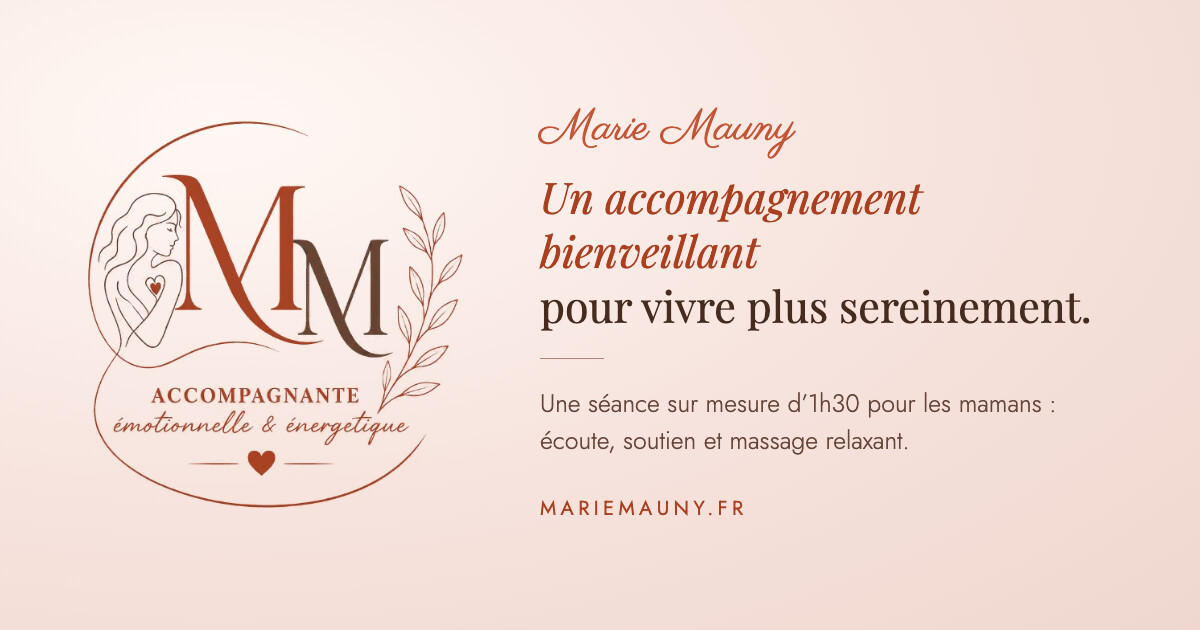
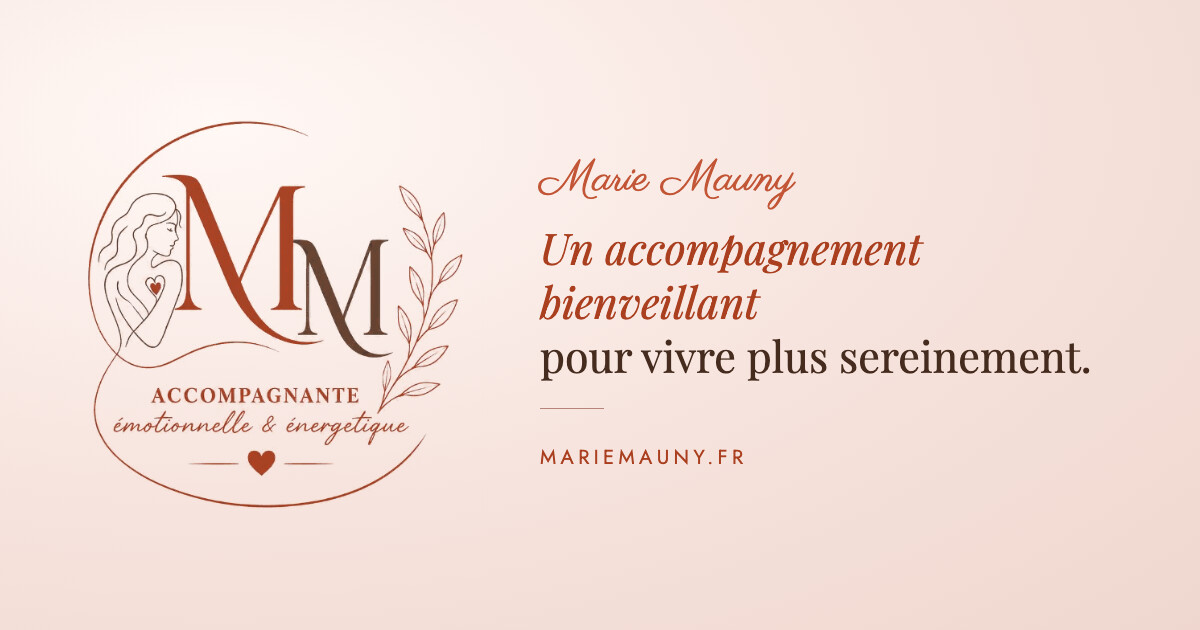
move the "Première fois" section just before the contact form
Its last answer already points to the form ("vous m'écrivez via le
formulaire en bas de page"), so it now sits right before it. The nav
follows the same order. Also renames the "La séance" eyebrow to
"Pour les femmes", and drops the tagline from the share image so the
main line carries it alone.

Changed region(s): [[0.4317, 0.181, 0.925, 0.6635], [0.4317, 0.6937, 0.7708, 0.754], [0.4317, 0.7841, 0.6167, 0.8143]]

diff --git a/index.html b/index.html
@@ -204,7 +204,7 @@
   .card p{color:var(--ink-soft);font-size:.95rem;margin-top:14px}
   @media(max-width:820px){.cards{grid-template-columns:1fr;max-width:420px;margin:0 auto}}
 
-  /* ---------- la séance ---------- */
+  /* ---------- pour les femmes ---------- */
   .price{
     display:flex;justify-content:center;flex-wrap:wrap;gap:18px 52px;
     max-width:660px;margin:0 auto 56px;padding:26px 36px;
@@ -420,9 +420,9 @@
   <nav id="menu">
     <a href="#about">À propos</a>
     <a href="#seance">Femme</a>
-    <a href="#premiere">Première fois</a>
     <a href="#jeune-maman">Jeune maman</a>
     <a href="#enfants">Enfant</a>
+    <a href="#premiere">Première fois</a>
     <a href="#contact">Contact</a>
   </nav>
   <button class="burger" id="burger" aria-label="Ouvrir le menu" aria-expanded="false" aria-controls="menu"><i></i></button>
@@ -472,11 +472,11 @@
   </div>
 </section>
 
-<!-- LA SÉANCE -->
+<!-- POUR LES FEMMES -->
 <section class="soins" id="seance">
   <div class="wrap">
     <div class="head reveal">
-      <span class="eyebrow">La séance</span>
+      <span class="eyebrow">Pour les femmes</span>
       <h2>Une seule formule, <span class="script">entièrement sur mesure</span></h2>
     </div>
 
@@ -509,35 +509,6 @@
     <p class="foot reveal">Il n’y a pas de menu à choisir : vous ne venez pas « prendre un massage ». Vous venez vivre un moment complet, construit pour vous, à chaque fois différent.</p>
 
     <div class="cta-row reveal"><a class="cta" href="#contact">Réserver ma séance</a></div>
-  </div>
-</section>
-
-<!-- PREMIÈRE SÉANCE -->
-<section class="first" id="premiere">
-  <div class="wrap">
-    <div class="head reveal">
-      <span class="eyebrow">Première fois ?</span>
-      <h2>Ce qui vous attend, <span class="script">sans surprise</span></h2>
-    </div>
-    <div class="qa">
-      <div class="q reveal">
-        <h3>Je n’ai rien à préparer ?</h3>
-        <p>Rien du tout. Vous arrivez comme vous êtes, même fatiguée, même sans savoir quoi dire. C’est mon rôle de vous accueillir à partir de là.</p>
-      </div>
-      <div class="q reveal">
-        <h3>Et si je n’ai pas envie de parler ?</h3>
-        <p>Vous n’êtes pas obligée de raconter quoi que ce soit. Le temps d’échange s’adapte : certaines ont besoin de déposer beaucoup, d’autres très peu.</p>
-      </div>
-      <div class="q reveal">
-        <h3>Pourquoi une heure et demie ?</h3>
-        <p>Parce qu’un massage seul ne suffit pas. Le temps d’écoute et de compréhension fait partie du soin : c’est lui qui rend le massage juste pour vous.</p>
-      </div>
-      <div class="q reveal">
-        <h3>Comment ça se passe ensuite ?</h3>
-        <p>Vous m’écrivez via le formulaire en bas de page. Je vous réponds sous 24 h et nous trouvons ensemble le créneau qui vous convient.</p>
-      </div>
-      <!-- TODO Marie : ajouter ce qu'il faut prévoir (tenue, arrivée, stationnement) une fois le lieu confirmé -->
-    </div>
   </div>
 </section>
 
@@ -651,6 +622,35 @@
       </div>
 
       <a class="cta" href="#contact">Réserver une séance enfant</a>
+    </div>
+  </div>
+</section>
+
+<!-- PREMIÈRE SÉANCE -->
+<section class="first" id="premiere">
+  <div class="wrap">
+    <div class="head reveal">
+      <span class="eyebrow">Première fois ?</span>
+      <h2>Ce qui vous attend, <span class="script">sans surprise</span></h2>
+    </div>
+    <div class="qa">
+      <div class="q reveal">
+        <h3>Je n’ai rien à préparer ?</h3>
+        <p>Rien du tout. Vous arrivez comme vous êtes, même fatiguée, même sans savoir quoi dire. C’est mon rôle de vous accueillir à partir de là.</p>
+      </div>
+      <div class="q reveal">
+        <h3>Et si je n’ai pas envie de parler ?</h3>
+        <p>Vous n’êtes pas obligée de raconter quoi que ce soit. Le temps d’échange s’adapte : certaines ont besoin de déposer beaucoup, d’autres très peu.</p>
+      </div>
+      <div class="q reveal">
+        <h3>Pourquoi une heure et demie ?</h3>
+        <p>Parce qu’un massage seul ne suffit pas. Le temps d’écoute et de compréhension fait partie du soin : c’est lui qui rend le massage juste pour vous.</p>
+      </div>
+      <div class="q reveal">
+        <h3>Comment ça se passe ensuite ?</h3>
+        <p>Vous m’écrivez via le formulaire en bas de page. Je vous réponds sous 24 h et nous trouvons ensemble le créneau qui vous convient.</p>
+      </div>
+      <!-- TODO Marie : ajouter ce qu'il faut prévoir (tenue, arrivée, stationnement) une fois le lieu confirmé -->
     </div>
   </div>
 </section>
